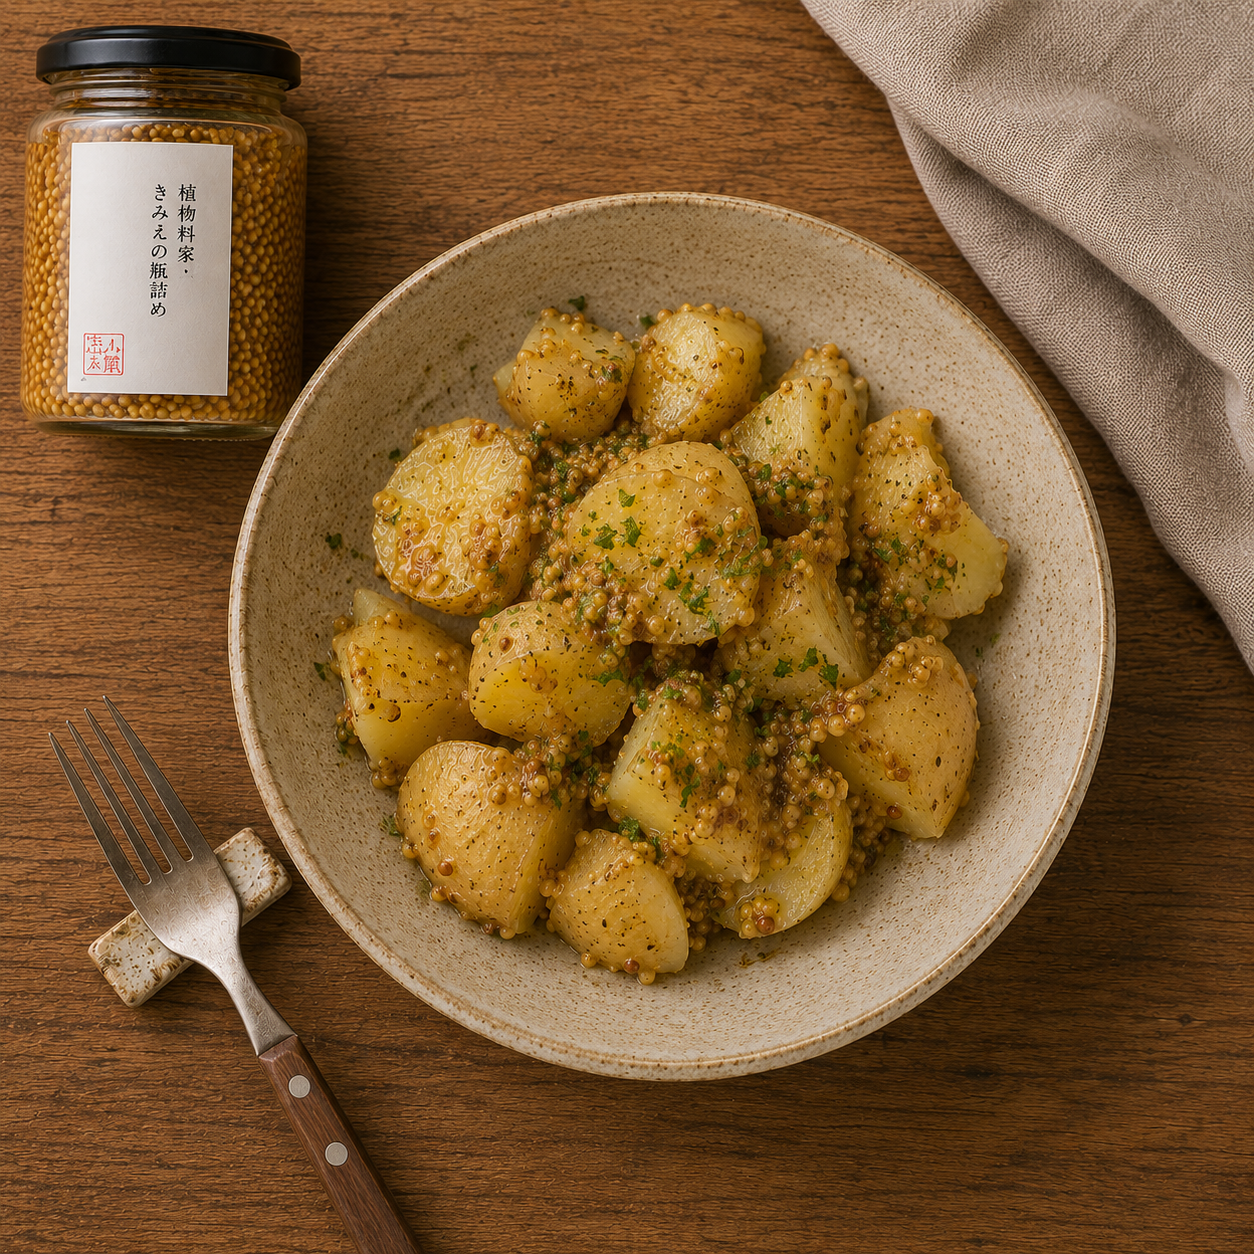
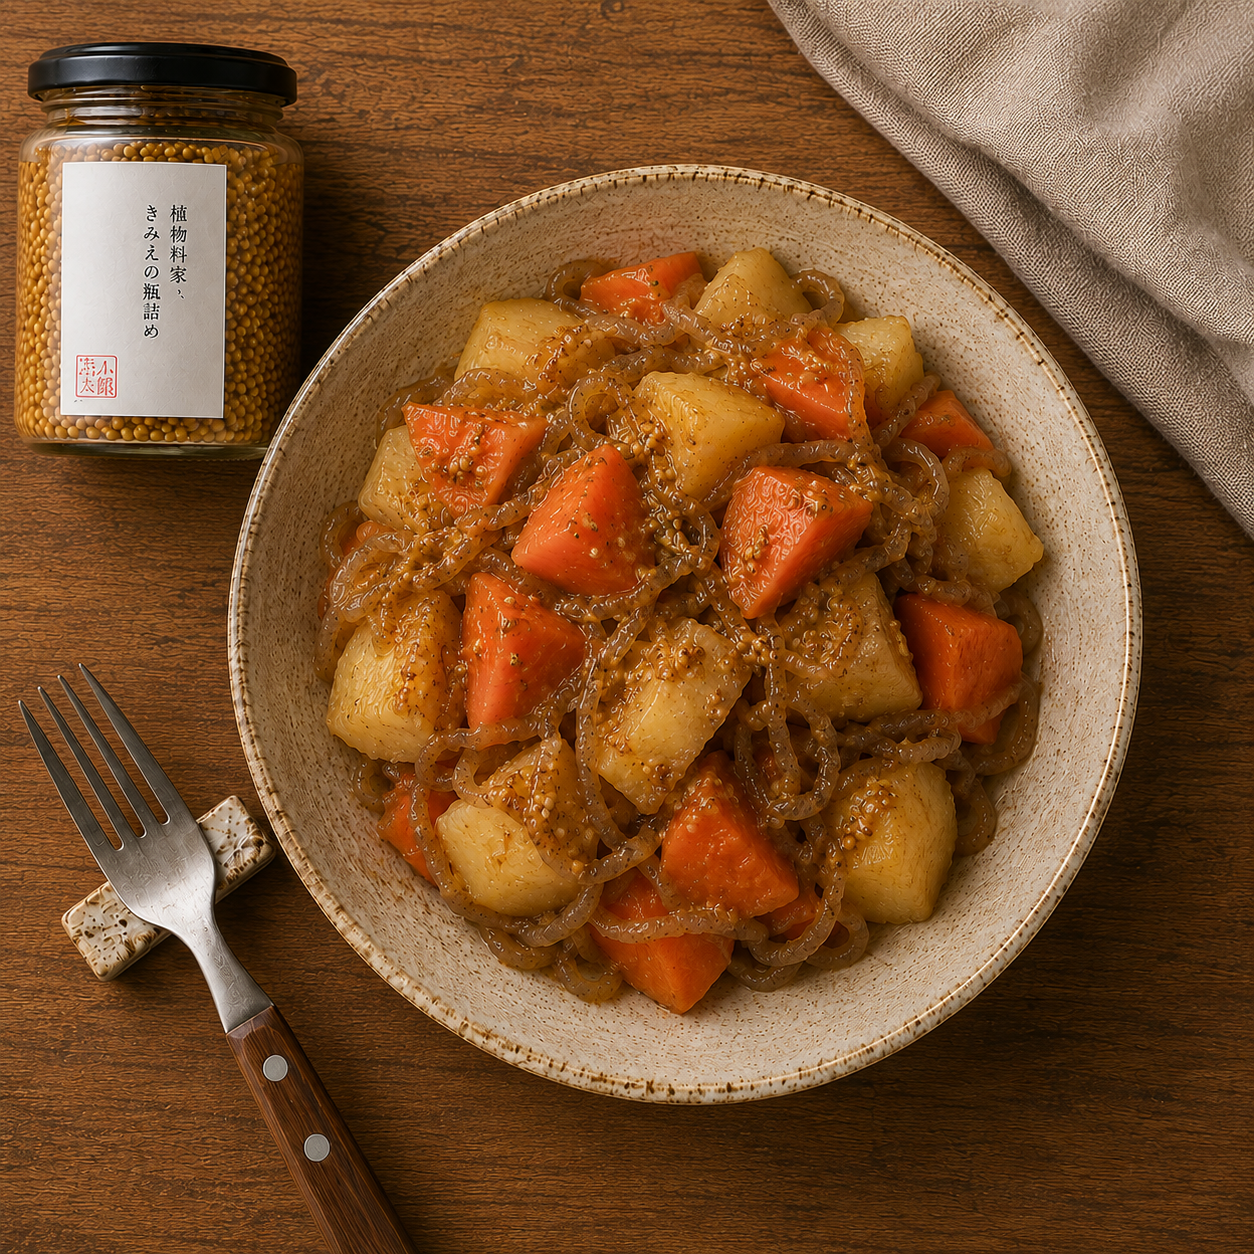
feat: 更新食譜步驟描述並移除不必要的元件

diff --git a/src/app/i18n.ts b/src/app/i18n.ts
@@ -196,11 +196,11 @@ const en: Translations = {
     badge: "小さな工房 · OPEN-AIR ATELIER",
     caption: "KIMIE · EHIME, JAPAN",
     steps: [
-      { n: "Ⅰ", title: "Harvest", desc: "Lemons are hand-picked in late autumn when the skins are thick and the essential oils are most fragrant." },
-      { n: "Ⅱ", title: "Score", desc: "Each lemon is scored lengthways and packed generously with sea salt, drawing out moisture and starting the cure." },
-      { n: "Ⅲ", title: "Pack", desc: "Salted lemons are packed tightly into sterilised glass jars and gently pressed under their own brine." },
-      { n: "Ⅳ", title: "Wait", desc: "The jars rest for six months in a cool, dark space. Over time the lemons soften, mellow, and deepen." },
-      { n: "Ⅴ", title: "Ship", desc: "Once ready, each jar is hand-labelled and carefully packed for its journey to your kitchen." },
+      { n: "Ⅰ", title: "Choose the ingredients", desc: "We carefully select the ingredients for each sauce — mustard seeds, olives, herbs, and more — while honoring their natural aroma and depth. We prepare each one with close attention to its condition and character." },
+      { n: "Ⅱ", title: "Season and mix", desc: "Mustard seeds are soaked until tender, while tapenade ingredients are chopped with care. We use the method best suited to each ingredient to bring out its ideal flavor and texture." },
+      { n: "Ⅲ", title: "Balance the flavor", desc: "We combine vinegar, olive oil, salt, and aromatic ingredients to let each ingredient speak clearly. We check the balance of acidity, salt, and aroma until each bottle finds its own character." },
+      { n: "Ⅳ", title: "Bottle it", desc: "The finished sauce is packed into thoroughly cleaned and dried glass bottles with meticulous care. We seal each jar with attention to hygiene and store it at the proper temperature." },
+      { n: "Ⅴ", title: "Finish and label", desc: "We check the bottled sauce, then label each one by hand. The gentle texture of mustard and the deep aroma of tapenade are both treated as the final expression of the product." },
     ],
   },
   recipes: {
@@ -274,16 +274,16 @@ const ja: Translations = {
     ],
   },
   process: {
-    sectionLabel: "製造工程",
-    heading: ["昔ながらの", "作り方で。"],
-    badge: "小さな工房 · 野外アトリエ",
-    caption: "キミエ · 愛媛県，日本",
+    sectionLabel: "作り方",
+    heading: ["素材本来のおいしさを","ひと瓶に"],
+    badge: "植物料理家きみえ",
+    caption: "日本",
     steps: [
-      { n: "Ⅰ", title: "収穫", desc: "秋遅く、皮が厚くなり精油が最も香り高い時期にレモンを手摘みします。" },
-      { n: "Ⅱ", title: "切れ込み", desc: "各レモンに縦に切れ込みを入れ、たっぷりの塩で包みます。水分が引き出され、保存が始まります。" },
-      { n: "Ⅲ", title: "詰める", desc: "塩漬けにしたレモンを滅菌ガラス瓶に隙間なく詰め、自分の塩水の重みで押さえます。" },
-      { n: "Ⅳ", title: "待つ", desc: "瓶を涼しく暗い場所で6ヶ月間熟成させます。時間をかけてレモンは柔らかくなり、深い風味が生まれます。" },
-      { n: "Ⅴ", title: "発送", desc: "熟成が完了したら、一本一本手書きのラベルを貼り、丁寧に梱包してお届けします。" },
+      { n: "Ⅰ", title: "素材を選ぶ", desc: "マスタードシードやオリーブ、ハーブなど、それぞれのソースに使う素材を丁寧に選びます。素材本来の香りと味わいを大切に、一つひとつ状態を確かめながら下ごしらえします。" },
+      { n: "Ⅱ", title: "仕込む", desc: "マスタードは種をじっくりと浸してやわらかくし、タプナードはオリーブや香味素材を丁寧に刻みます。それぞれの素材に合った方法で、風味と食感を引き出します。" },
+      { n: "Ⅲ", title: "味を調える", desc: "酢やオリーブオイル、塩、香味素材などを合わせ、素材の個性を生かしながら味を整えます。酸味、塩味、香りのバランスを確かめ、一瓶ずつの味わいを仕上げます。" },
+      { n: "Ⅳ", title: "瓶に詰める", desc: "できあがったソースを、洗浄・殺菌して十分に乾燥させたガラス瓶へ丁寧に詰めます。衛生管理に気を配りながら密封し、適切な温度で保存します。" },
+      { n: "Ⅴ", title: "仕上げる", desc: "瓶詰めしたソースの状態を確認し、一本一本ラベルを貼って仕上げます。マスタードの粒の食感も、タプナードの豊かな香りも、そのおいしさを大切にしてお届けします。" },
     ],
   },
   recipes: {
@@ -362,11 +362,11 @@ const fr: Translations = {
     badge: "小さな工房 · PETIT ATELIER",
     caption: "KIMIE · EHIME, JAPON",
     steps: [
-      { n: "Ⅰ", title: "Récolte", desc: "Les citrons sont cueillis à la main en fin d'automne, quand les peaux sont épaisses et les huiles essentielles les plus parfumées." },
-      { n: "Ⅱ", title: "Incision", desc: "Chaque citron est incisé dans la longueur et généreusement enrobé de sel de mer, qui extrait l'humidité et déclenche la salaison." },
-      { n: "Ⅲ", title: "Mise en bocal", desc: "Les citrons salés sont tassés dans des bocaux stérilisés et doucement pressés sous leur propre saumure." },
-      { n: "Ⅳ", title: "Attente", desc: "Les bocaux reposent six mois dans un endroit frais et sombre. Au fil du temps les citrons s'attendrissent, s'adoucissent et s'approfondissent." },
-      { n: "Ⅴ", title: "Expédition", desc: "Une fois prêts, chaque bocal est étiqueté à la main et soigneusement emballé pour son voyage jusqu'à votre cuisine." },
+      { n: "Ⅰ", title: "Choisir les ingrédients", desc: "Nous sélectionnons avec soin les ingrédients de chaque sauce — graines de moutarde, olives, herbes et autres éléments — en respectant leur parfum et leur profondeur naturels. Nous préparons chacun d'eux en vérifiant sa qualité et sa personnalité." },
+      { n: "Ⅱ", title: "Mise en œuvre", desc: "Les graines de moutarde sont trempées jusqu'à devenir souples, tandis que les ingrédients de la tapenade sont hachés avec soin. Nous utilisons la méthode la mieux adaptée à chaque ingrédient pour faire ressortir son goût et sa texture." },
+      { n: "Ⅲ", title: "Équilibrer les saveurs", desc: "Nous associons vinaigre, huile d'olive, sel et aromates pour laisser chaque ingrédient s'exprimer pleinement. Nous ajustons l'équilibre entre acidité, salinité et parfum jusqu'à ce que chaque bouteille révèle son propre caractère." },
+      { n: "Ⅳ", title: "Mettre en bocal", desc: "La sauce finie est versée dans des bocaux en verre soigneusement nettoyés et séchés. Nous les scellons avec attention à l'hygiène et les conservons à la température idéale." },
+      { n: "Ⅴ", title: "Terminer et étiqueter", desc: "Nous vérifions l'état des sauces en bouteille puis les étiquetons une par une à la main. La texture douce de la moutarde et l'arôme profond de la tapenade sont autant d'éléments que nous chérissons dans le produit final." },
     ],
   },
   recipes: {
@@ -445,11 +445,11 @@ const zh: Translations = {
     badge: "小さな工房 · 露天工坊",
     caption: "木江 · 爱媛县，日本",
     steps: [
-      { n: "Ⅰ", title: "采摘", desc: "深秋时节，皮厚且精油最为芬芳时，手工采摘柠檬。" },
-      { n: "Ⅱ", title: "切割", desc: "每颗柠檬纵向切开，慷慨地抹上海盐，析出水分，开始腌制。" },
-      { n: "Ⅲ", title: "装瓶", desc: "将腌制好的柠檬紧密装入已消毒的玻璃瓶，在自身盐水重量下轻压。" },
-      { n: "Ⅳ", title: "等待", desc: "玻璃瓶在阴凉处静置六个月。随着时间推移，柠檬逐渐软化、醇化、风味加深。" },
-      { n: "Ⅴ", title: "发货", desc: "准备就绪后，每瓶手贴标签，精心包装，踏上前往您厨房的旅程。" },
+      { n: "Ⅰ", title: "筛选原料", desc: "我们会细心挑选每款酱料所需的原料——芥末籽、橄榄、香草等，并尊重它们原本的香气与层次。每一份材料在备料时都会被认真检查其状态与特性。" },
+      { n: "Ⅱ", title: "腌制与混合", desc: "芥末籽会浸泡至变得柔软，橄榄酱的配料则会被细心切碎。我们根据每种食材的特点选择最合适的方法，以激发它们最好的风味和口感。" },
+      { n: "Ⅲ", title: "调和风味", desc: "我们将醋、橄榄油、盐和香料按比例结合，让每一种材料都能充分表达自己。我们不断校正酸度、咸度和香气的平衡，直到每一瓶都找到独特的风味。" },
+      { n: "Ⅳ", title: "装瓶入罐", desc: "成品酱会被细心装入经过清洁和干燥的玻璃瓶中。我们严谨把控卫生条件并密封，确保在适宜的温度下保存。" },
+      { n: "Ⅴ", title: "收尾与贴签", desc: "我们会确认瓶中酱料状态，然后逐瓶手工贴签。芥末的颗粒口感与橄榄酱的浓郁香气，都会被视为成品最重要的最终表达。" },
     ],
   },
   recipes: {

diff --git a/src/app/App.tsx b/src/app/App.tsx
@@ -638,9 +638,6 @@ function Lineup() {
           </div>
         )}
 
-        <Reveal>
-          <p className="text-center" style={{ ...body, margin: "3.5rem 0 0", fontSize: "0.82rem", color: "var(--ym-muted)" }}>{T.twoJar.note}</p>
-        </Reveal>
       </div>
     </section>
   );
@@ -700,10 +697,6 @@ function Recipes() {
             );
           })}
         </div>
-
-        <Reveal delay={350}>
-          <p className="mt-14 text-center" style={{ ...body, fontSize: "0.82rem", color: "var(--ym-muted)" }}>{R.footerNote}</p>
-        </Reveal>
       </div>
     </section>
   );
